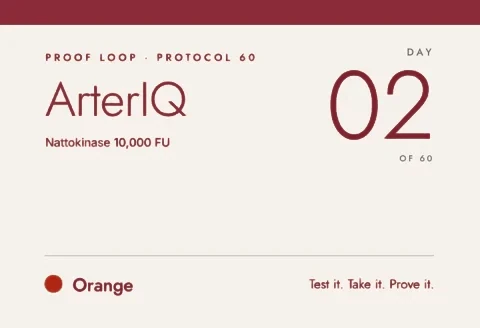
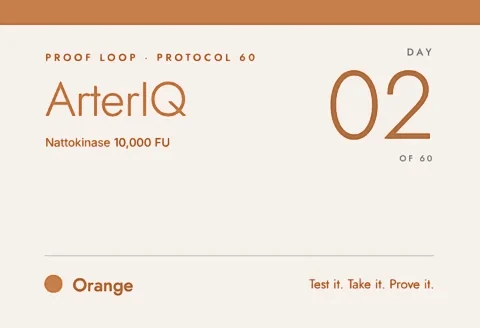
Flavour colours (saffron, cocoa, stone); clearer hero headline
Claude-Session: https://claude.ai/code/session_01PkeobWmfrChtD7SqVdFZLv

diff --git a/index.html b/index.html
@@ -1658,6 +1658,13 @@ body:has(.sci-hero) .hdr:not(.sc) .ldesc,body:has(.jhero) .hdr:not(.sc) .ldesc{c
 /* bright blood-cell artwork -> wine */
 img[src*="fibrin"]{filter:saturate(.75) brightness(.62) contrast(1.08)}
 @media (max-width:1000px){.sci-hero{padding:130px 0 72px!important}.jhero{padding:120px 0 64px}.jpage .jrn{padding-top:56px!important}}
+/* hero headline legibility: no clipped glow, darker veil behind text */
+.hfull:has(.hbgf) .leaph,.hfull:has(.hbgf) .leaph .leapacc,.hfull:has(.hbgf) .leaph .leapmute{text-shadow:none!important}
+.hfull .hbg.hbgf::after{background:
+ radial-gradient(58% 46% at 50% 40%,rgba(20,2,5,.78) 0%,rgba(20,2,5,.6) 45%,rgba(20,2,5,.25) 78%,rgba(20,2,5,0) 100%),
+ linear-gradient(180deg,rgba(20,2,5,.45) 0%,rgba(20,2,5,.1) 18%,rgba(20,2,5,.1) 70%,rgba(26,3,6,.9) 96%,#1A0306 100%)!important}
+@media (max-width:1000px){.hfull .hbg.hbgf::after{background:radial-gradient(95% 50% at 50% 38%,rgba(20,2,5,.75) 0%,rgba(20,2,5,.45) 60%,rgba(20,2,5,.1) 100%),linear-gradient(180deg,rgba(20,2,5,.4) 0%,rgba(20,2,5,0) 20%,rgba(20,2,5,0) 60%,rgba(26,3,6,.92) 92%,#1A0306 100%)!important}}
+.hfull:has(.hbgf) .leaph .sw{overflow:visible!important}
 
 [hidden]{display:none!important}
 </style>
@@ -1725,7 +1732,7 @@ img[src*="fibrin"]{filter:saturate(.75) brightness(.62) contrast(1.08)}
 <div class="obody">
 <p style="margin:0;font-size:14px;color:#6C5C5D"><span style="display:inline-flex;gap:2px" role="img" aria-label="5 out of 5 stars"><svg width="13" height="13" viewBox="0 0 24 24" fill="#992E3C" aria-hidden="true"><path d="M12 2.5l2.9 6 6.6.8-4.9 4.6 1.3 6.6L12 17.3l-5.9 3.2 1.3-6.6L2.5 9.3l6.6-.8L12 2.5Z"></path></svg><svg width="13" height="13" viewBox="0 0 24 24" fill="#992E3C" aria-hidden="true"><path d="M12 2.5l2.9 6 6.6.8-4.9 4.6 1.3 6.6L12 17.3l-5.9 3.2 1.3-6.6L2.5 9.3l6.6-.8L12 2.5Z"></path></svg><svg width="13" height="13" viewBox="0 0 24 24" fill="#992E3C" aria-hidden="true"><path d="M12 2.5l2.9 6 6.6.8-4.9 4.6 1.3 6.6L12 17.3l-5.9 3.2 1.3-6.6L2.5 9.3l6.6-.8L12 2.5Z"></path></svg><svg width="13" height="13" viewBox="0 0 24 24" fill="#992E3C" aria-hidden="true"><path d="M12 2.5l2.9 6 6.6.8-4.9 4.6 1.3 6.6L12 17.3l-5.9 3.2 1.3-6.6L2.5 9.3l6.6-.8L12 2.5Z"></path></svg><svg width="13" height="13" viewBox="0 0 24 24" fill="#992E3C" aria-hidden="true"><path d="M12 2.5l2.9 6 6.6.8-4.9 4.6 1.3 6.6L12 17.3l-5.9 3.2 1.3-6.6L2.5 9.3l6.6-.8L12 2.5Z"></path></svg></span> <span class="cnt" style="--to:300"></span>+ cardiologists across India recommend Arter.IQ</p>
 <div><p class="mono" style="margin:0 0 8px">Protocol 60 · your 60-day heart plan</p><h2 class="disp h2" style="font-size:44px;margin:0">One sachet a day. <span class="grad">See the change in 60.</span></h2></div>
-<div class="ostep"><p class="opl"><span class="osn">1</span>Pick your flavour</p><div class="flr3" role="group" aria-label="Flavour"><button class="flc" type="button" data-fl="chocolate" data-fln="Chocolate" style="--fc:#5B3424" aria-pressed="false"><span class="fld"></span><span class="fln">Chocolate</span><span class="flt">Rich cocoa</span></button><button class="flc on" type="button" data-fl="orange" data-fln="Orange" style="--fc:#991C2C" aria-pressed="true"><span class="fld"></span><span class="fln">Orange</span><span class="flt">Bright citrus</span></button><button class="flc" type="button" data-fl="unflavoured" data-fln="Unflavoured" style="--fc:#992635" aria-pressed="false"><span class="fld"></span><span class="fln">Unflavoured</span><span class="flt">Mix into anything</span></button></div><p class="fls1">Same 10,000 FU in every sachet. Same Protocol 60 Box for every flavour. Only your 60 sachets and 6 shots change.</p></div>
+<div class="ostep"><p class="opl"><span class="osn">1</span>Pick your flavour</p><div class="flr3" role="group" aria-label="Flavour"><button class="flc" type="button" data-fl="chocolate" data-fln="Chocolate" style="--fc:#5B3424" aria-pressed="false"><span class="fld"></span><span class="fln">Chocolate</span><span class="flt">Rich cocoa</span></button><button class="flc on" type="button" data-fl="orange" data-fln="Orange" style="--fc:#B8692E" aria-pressed="true"><span class="fld"></span><span class="fln">Orange</span><span class="flt">Bright citrus</span></button><button class="flc" type="button" data-fl="unflavoured" data-fln="Unflavoured" style="--fc:#9C8B7C" aria-pressed="false"><span class="fld"></span><span class="fln">Unflavoured</span><span class="flt">Mix into anything</span></button></div><p class="fls1">Same 10,000 FU in every sachet. Same Protocol 60 Box for every flavour. Only your 60 sachets and 6 shots change.</p></div>
 <div class="ostep"><p class="opl"><span class="osn">2</span>What's in your box</p>
 <div class="oline"><span class="oicon"><svg width="20" height="20" viewBox="0 0 24 24" fill="none" stroke="currentColor" stroke-width="1.7" stroke-linecap="round" stroke-linejoin="round" aria-hidden="true"><path d="M12 20s-7-4.3-8.8-8.6C2 8.3 4 5 7.2 5c2 0 3.3 1.1 4.8 2.8C13.5 6.1 14.8 5 16.8 5 20 5 22 8.3 20.8 11.4 19 15.7 12 20 12 20Z"></path></svg></span><span><strong>60 sachets, numbered by day</strong><br><span class="osub">10,000 FU nattokinase · <span data-flname>Orange</span></span></span><span></span></div>
 <div class="oline"><span class="oicon"><svg width="20" height="20" viewBox="0 0 24 24" fill="none" stroke="currentColor" stroke-width="1.7" stroke-linecap="round" stroke-linejoin="round" aria-hidden="true"><path d="M3 7h11v9H3zM14 10h4l3 3v3h-7"></path><circle cx="7" cy="18" r="1.6"></circle><circle cx="17" cy="18" r="1.6"></circle></svg></span><span><strong>6 Travel &amp; Sauna shots</strong><br><span class="osub">In a pull-out drawer that travels with you</span></span><span></span></div>

diff --git a/journey.html b/journey.html
@@ -1658,6 +1658,13 @@ body:has(.sci-hero) .hdr:not(.sc) .ldesc,body:has(.jhero) .hdr:not(.sc) .ldesc{c
 /* bright blood-cell artwork -> wine */
 img[src*="fibrin"]{filter:saturate(.75) brightness(.62) contrast(1.08)}
 @media (max-width:1000px){.sci-hero{padding:130px 0 72px!important}.jhero{padding:120px 0 64px}.jpage .jrn{padding-top:56px!important}}
+/* hero headline legibility: no clipped glow, darker veil behind text */
+.hfull:has(.hbgf) .leaph,.hfull:has(.hbgf) .leaph .leapacc,.hfull:has(.hbgf) .leaph .leapmute{text-shadow:none!important}
+.hfull .hbg.hbgf::after{background:
+ radial-gradient(58% 46% at 50% 40%,rgba(20,2,5,.78) 0%,rgba(20,2,5,.6) 45%,rgba(20,2,5,.25) 78%,rgba(20,2,5,0) 100%),
+ linear-gradient(180deg,rgba(20,2,5,.45) 0%,rgba(20,2,5,.1) 18%,rgba(20,2,5,.1) 70%,rgba(26,3,6,.9) 96%,#1A0306 100%)!important}
+@media (max-width:1000px){.hfull .hbg.hbgf::after{background:radial-gradient(95% 50% at 50% 38%,rgba(20,2,5,.75) 0%,rgba(20,2,5,.45) 60%,rgba(20,2,5,.1) 100%),linear-gradient(180deg,rgba(20,2,5,.4) 0%,rgba(20,2,5,0) 20%,rgba(20,2,5,0) 60%,rgba(26,3,6,.92) 92%,#1A0306 100%)!important}}
+.hfull:has(.hbgf) .leaph .sw{overflow:visible!important}
 
 [hidden]{display:none!important}
 </style>

diff --git a/science.html b/science.html
@@ -1658,6 +1658,13 @@ body:has(.sci-hero) .hdr:not(.sc) .ldesc,body:has(.jhero) .hdr:not(.sc) .ldesc{c
 /* bright blood-cell artwork -> wine */
 img[src*="fibrin"]{filter:saturate(.75) brightness(.62) contrast(1.08)}
 @media (max-width:1000px){.sci-hero{padding:130px 0 72px!important}.jhero{padding:120px 0 64px}.jpage .jrn{padding-top:56px!important}}
+/* hero headline legibility: no clipped glow, darker veil behind text */
+.hfull:has(.hbgf) .leaph,.hfull:has(.hbgf) .leaph .leapacc,.hfull:has(.hbgf) .leaph .leapmute{text-shadow:none!important}
+.hfull .hbg.hbgf::after{background:
+ radial-gradient(58% 46% at 50% 40%,rgba(20,2,5,.78) 0%,rgba(20,2,5,.6) 45%,rgba(20,2,5,.25) 78%,rgba(20,2,5,0) 100%),
+ linear-gradient(180deg,rgba(20,2,5,.45) 0%,rgba(20,2,5,.1) 18%,rgba(20,2,5,.1) 70%,rgba(26,3,6,.9) 96%,#1A0306 100%)!important}
+@media (max-width:1000px){.hfull .hbg.hbgf::after{background:radial-gradient(95% 50% at 50% 38%,rgba(20,2,5,.75) 0%,rgba(20,2,5,.45) 60%,rgba(20,2,5,.1) 100%),linear-gradient(180deg,rgba(20,2,5,.4) 0%,rgba(20,2,5,0) 20%,rgba(20,2,5,0) 60%,rgba(26,3,6,.92) 92%,#1A0306 100%)!important}}
+.hfull:has(.hbgf) .leaph .sw{overflow:visible!important}
 
 [hidden]{display:none!important}
 </style>
